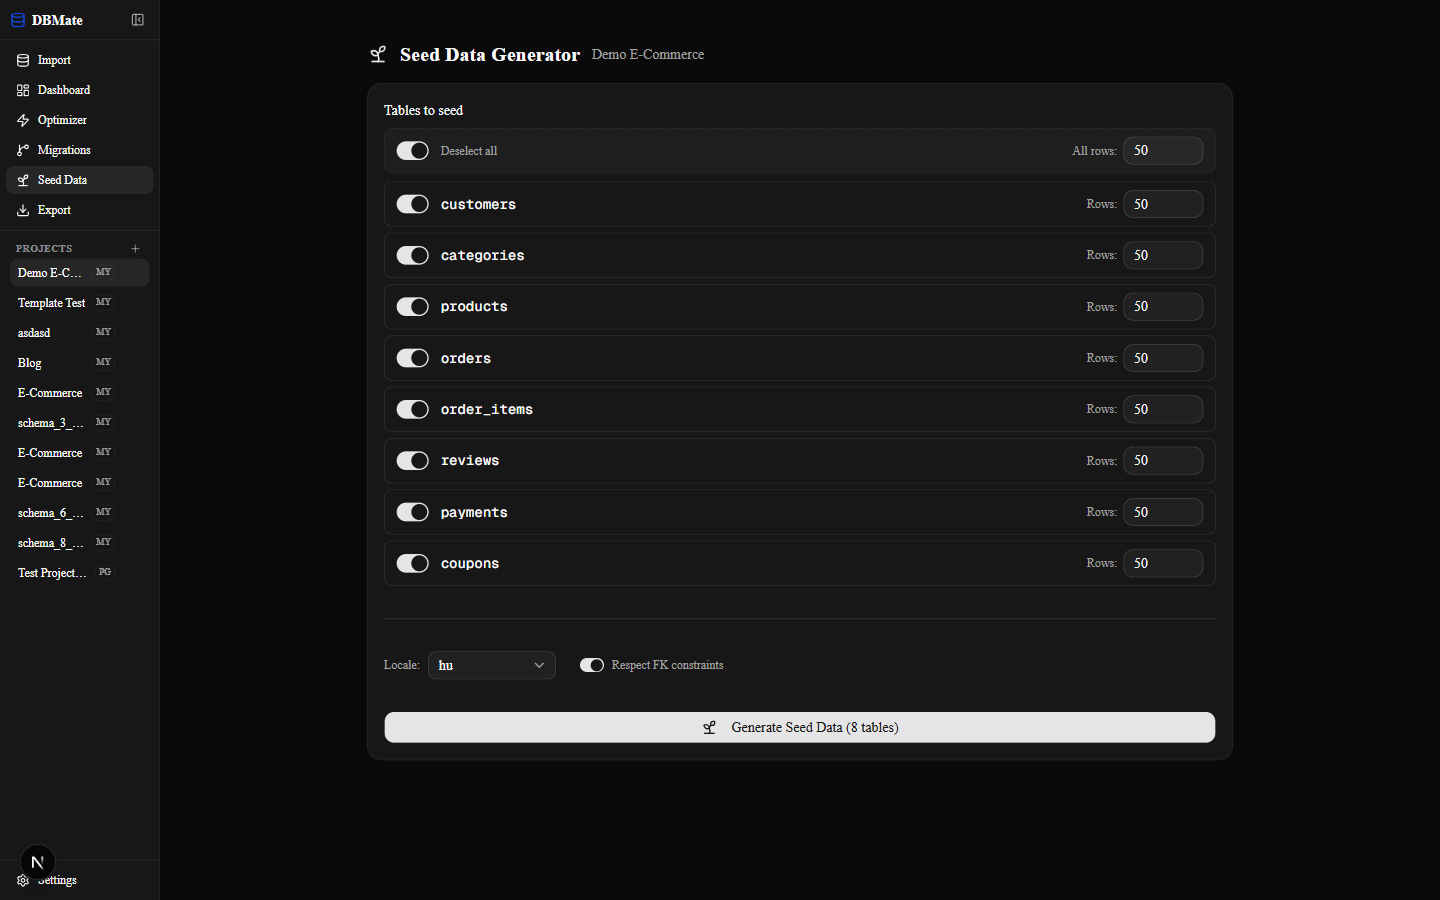
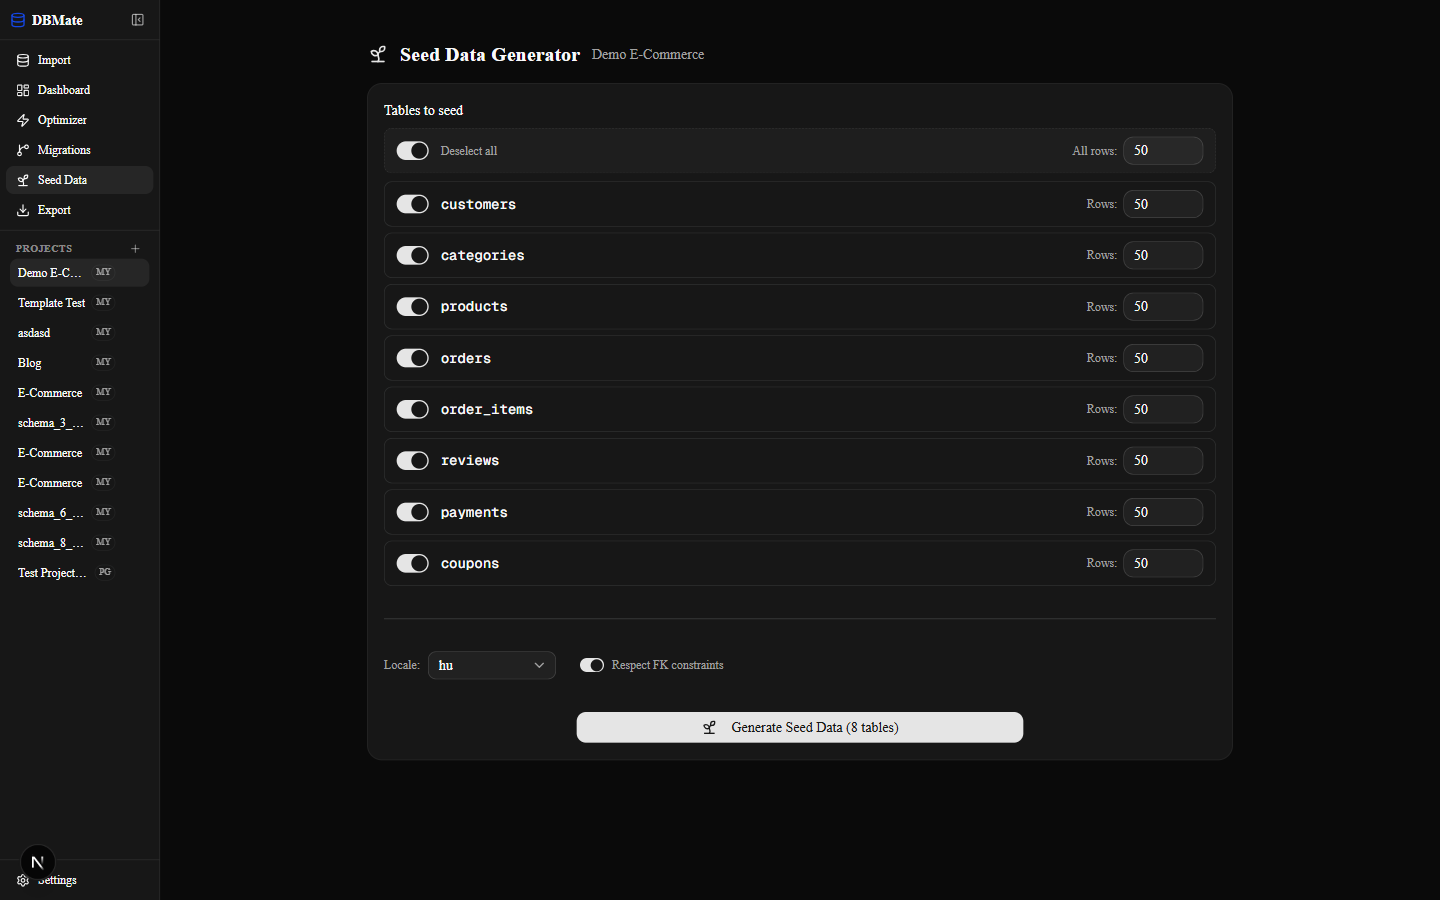
fix: widen Import Schema dialog, cap button widths
- Dialog max-w-xl → max-w-3xl for template step + overflow-y-auto
- Parse & Create buttons: max-w-xs mx-auto
- Generate Migration button: max-w-md mx-auto
- Generate Seed Data button: max-w-md mx-auto
- Updated 4 affected screenshots

Changed region(s): [[0.6875, 0.7778, 0.8438, 0.84], [0.25, 0.7778, 0.4062, 0.84]]

diff --git a/src/components/shared/new-project-wizard.tsx b/src/components/shared/new-project-wizard.tsx
@@ -208,9 +208,9 @@ export function NewProjectWizard({
     <Dialog open={open} onOpenChange={handleOpenChange}>
       <DialogContent
         className={cn(
-          'transition-all duration-200',
+          'transition-all duration-200 max-h-[85vh] overflow-y-auto',
           isExtraWide
-            ? 'max-w-xl'
+            ? 'max-w-3xl'
             : isWide
               ? 'max-w-2xl'
               : 'max-w-md'
@@ -239,7 +239,7 @@ export function NewProjectWizard({
                 value={projectName}
                 onChange={(e) => setProjectName(e.target.value)}
                 placeholder="My Database"
-                className="h-9 text-sm"
+                className="h-9 text-sm max-w-xs mx-auto w-full"
                 onKeyDown={(e) => e.key === 'Enter' && goToStep2()}
                 autoFocus
               />
@@ -266,7 +266,7 @@ export function NewProjectWizard({
             <Button
               onClick={goToStep2}
               disabled={!projectName.trim()}
-              className="h-9 text-sm"
+              className="h-9 text-sm max-w-xs mx-auto w-full"
             >
               Next
               <ArrowRight className="ml-2 h-3.5 w-3.5" />
@@ -326,7 +326,7 @@ export function NewProjectWizard({
             <Button
               onClick={handleImportSQL}
               disabled={isBusy || !sql.trim()}
-              className="h-9 text-sm"
+              className="h-9 text-sm max-w-xs mx-auto w-full"
             >
               {isBusy ? (
                 <Loader2 className="mr-2 h-4 w-4 animate-spin" />
@@ -358,7 +358,7 @@ export function NewProjectWizard({
             <Button
               onClick={handleImportSQL}
               disabled={isBusy || !sql.trim()}
-              className="h-9 text-sm"
+              className="h-9 text-sm max-w-xs mx-auto w-full"
             >
               {isBusy ? (
                 <Loader2 className="mr-2 h-4 w-4 animate-spin" />
@@ -393,7 +393,7 @@ export function NewProjectWizard({
                 <Button
                   onClick={handleImportSQL}
                   disabled={isBusy || !sql.trim()}
-                  className="h-9 text-sm"
+                  className="h-9 text-sm max-w-xs mx-auto w-full"
                 >
                   {isBusy ? (
                     <Loader2 className="mr-2 h-4 w-4 animate-spin" />

diff --git a/src/app/seed/page.tsx b/src/app/seed/page.tsx
@@ -166,7 +166,7 @@ export default function SeedPage() {
         <Button
           onClick={handleGenerate}
           disabled={isGenerating || enabledTables.length === 0}
-          className="w-full"
+          className="w-full max-w-md mx-auto"
         >
           {isGenerating ? (
             <Loader2 className="h-4 w-4 mr-2 animate-spin" />

diff --git a/src/components/migrations/migration-generator.tsx b/src/components/migrations/migration-generator.tsx
@@ -51,7 +51,7 @@ export function MigrationGenerator({
       <Button
         onClick={handleSubmit}
         disabled={!change.trim() || isGenerating || disabled}
-        className="w-full"
+        className="w-full max-w-md mx-auto"
       >
         {isGenerating ? (
           <Loader2 className="h-4 w-4 mr-2 animate-spin" />
